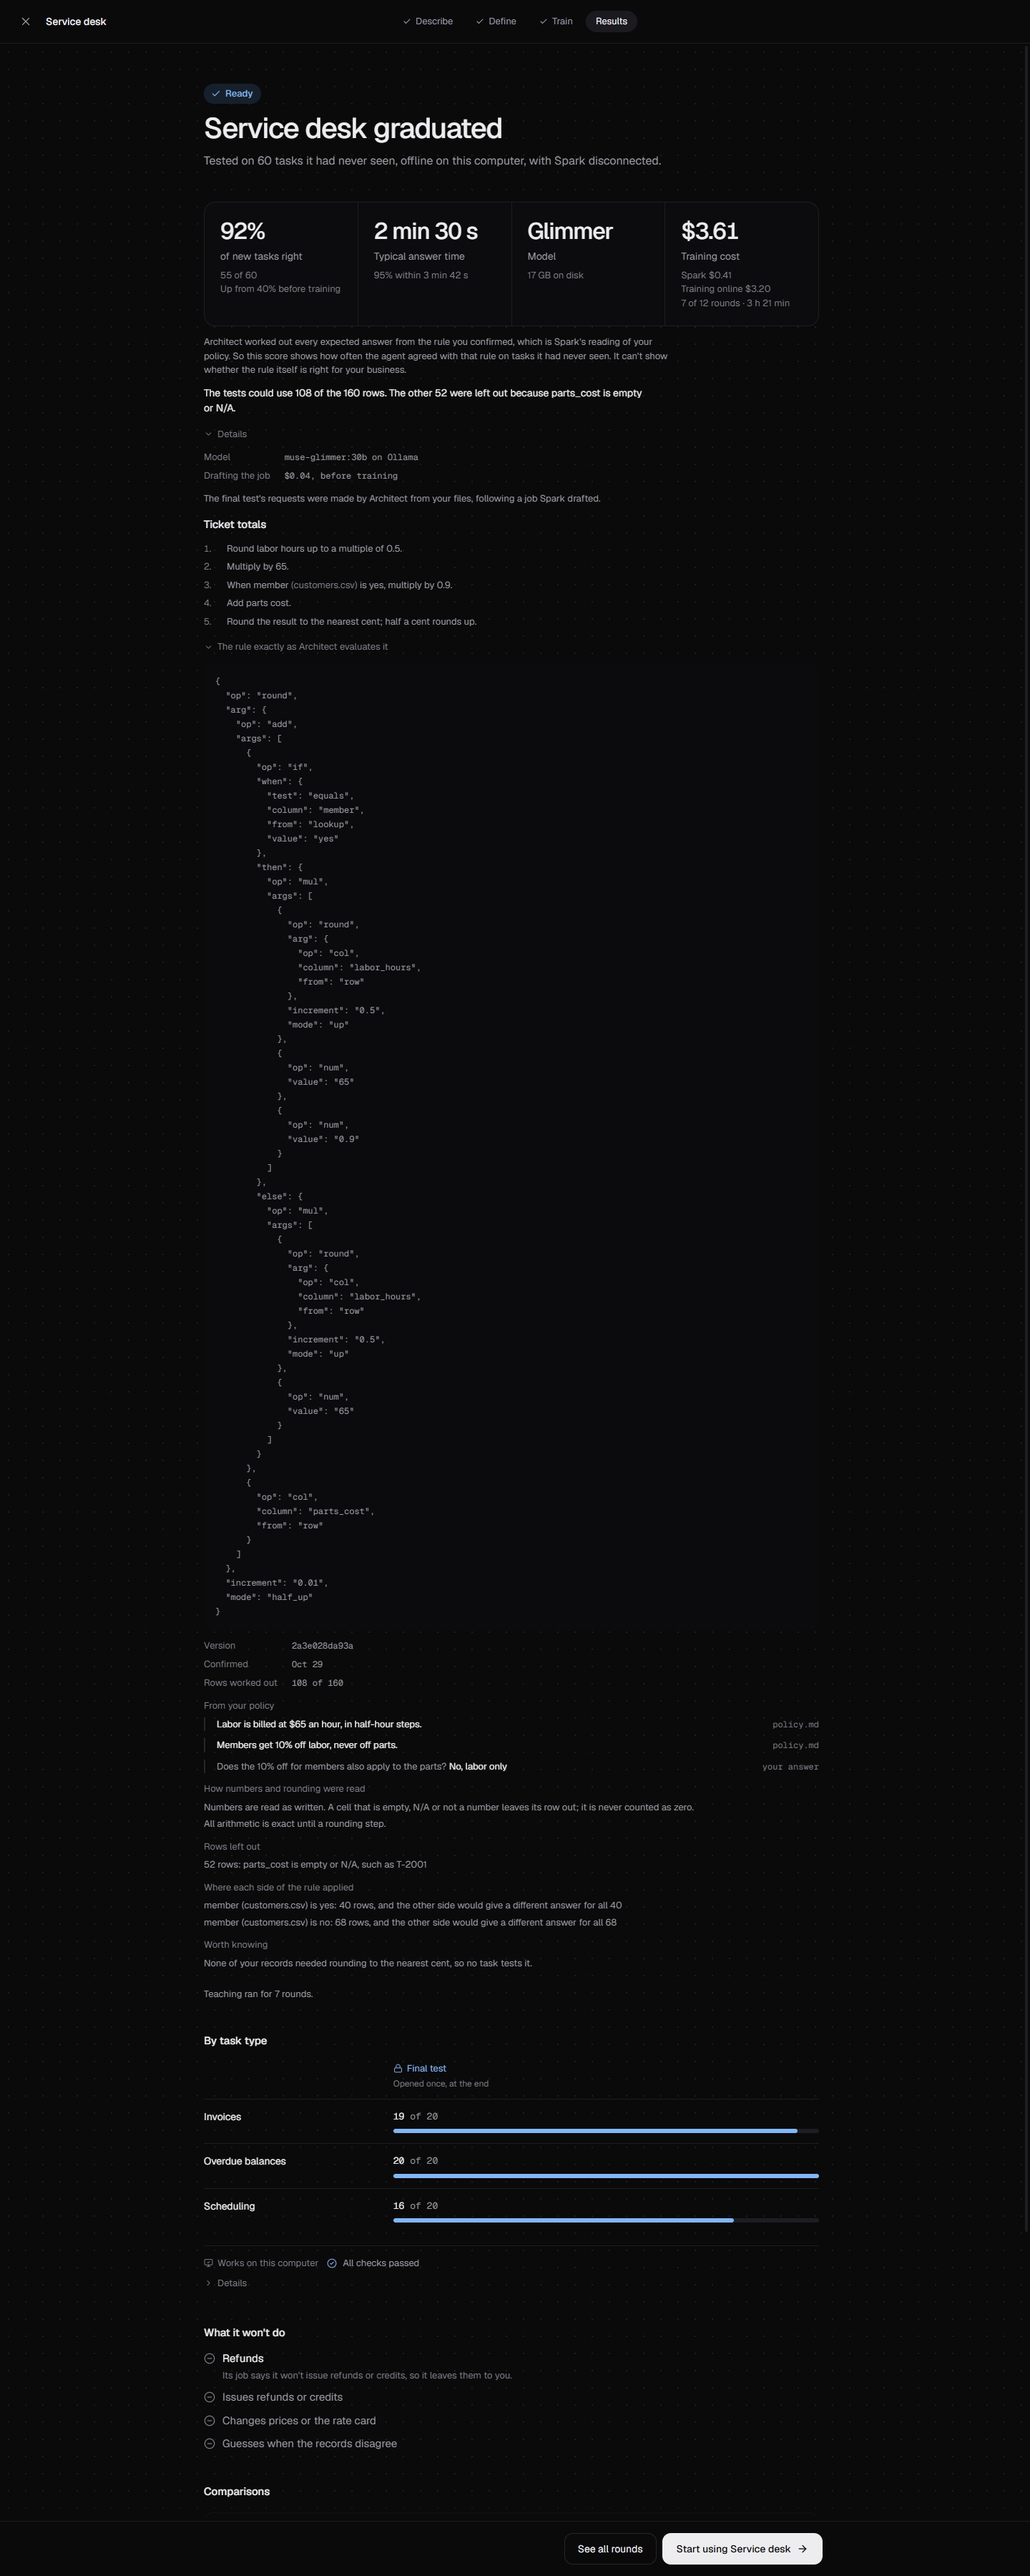
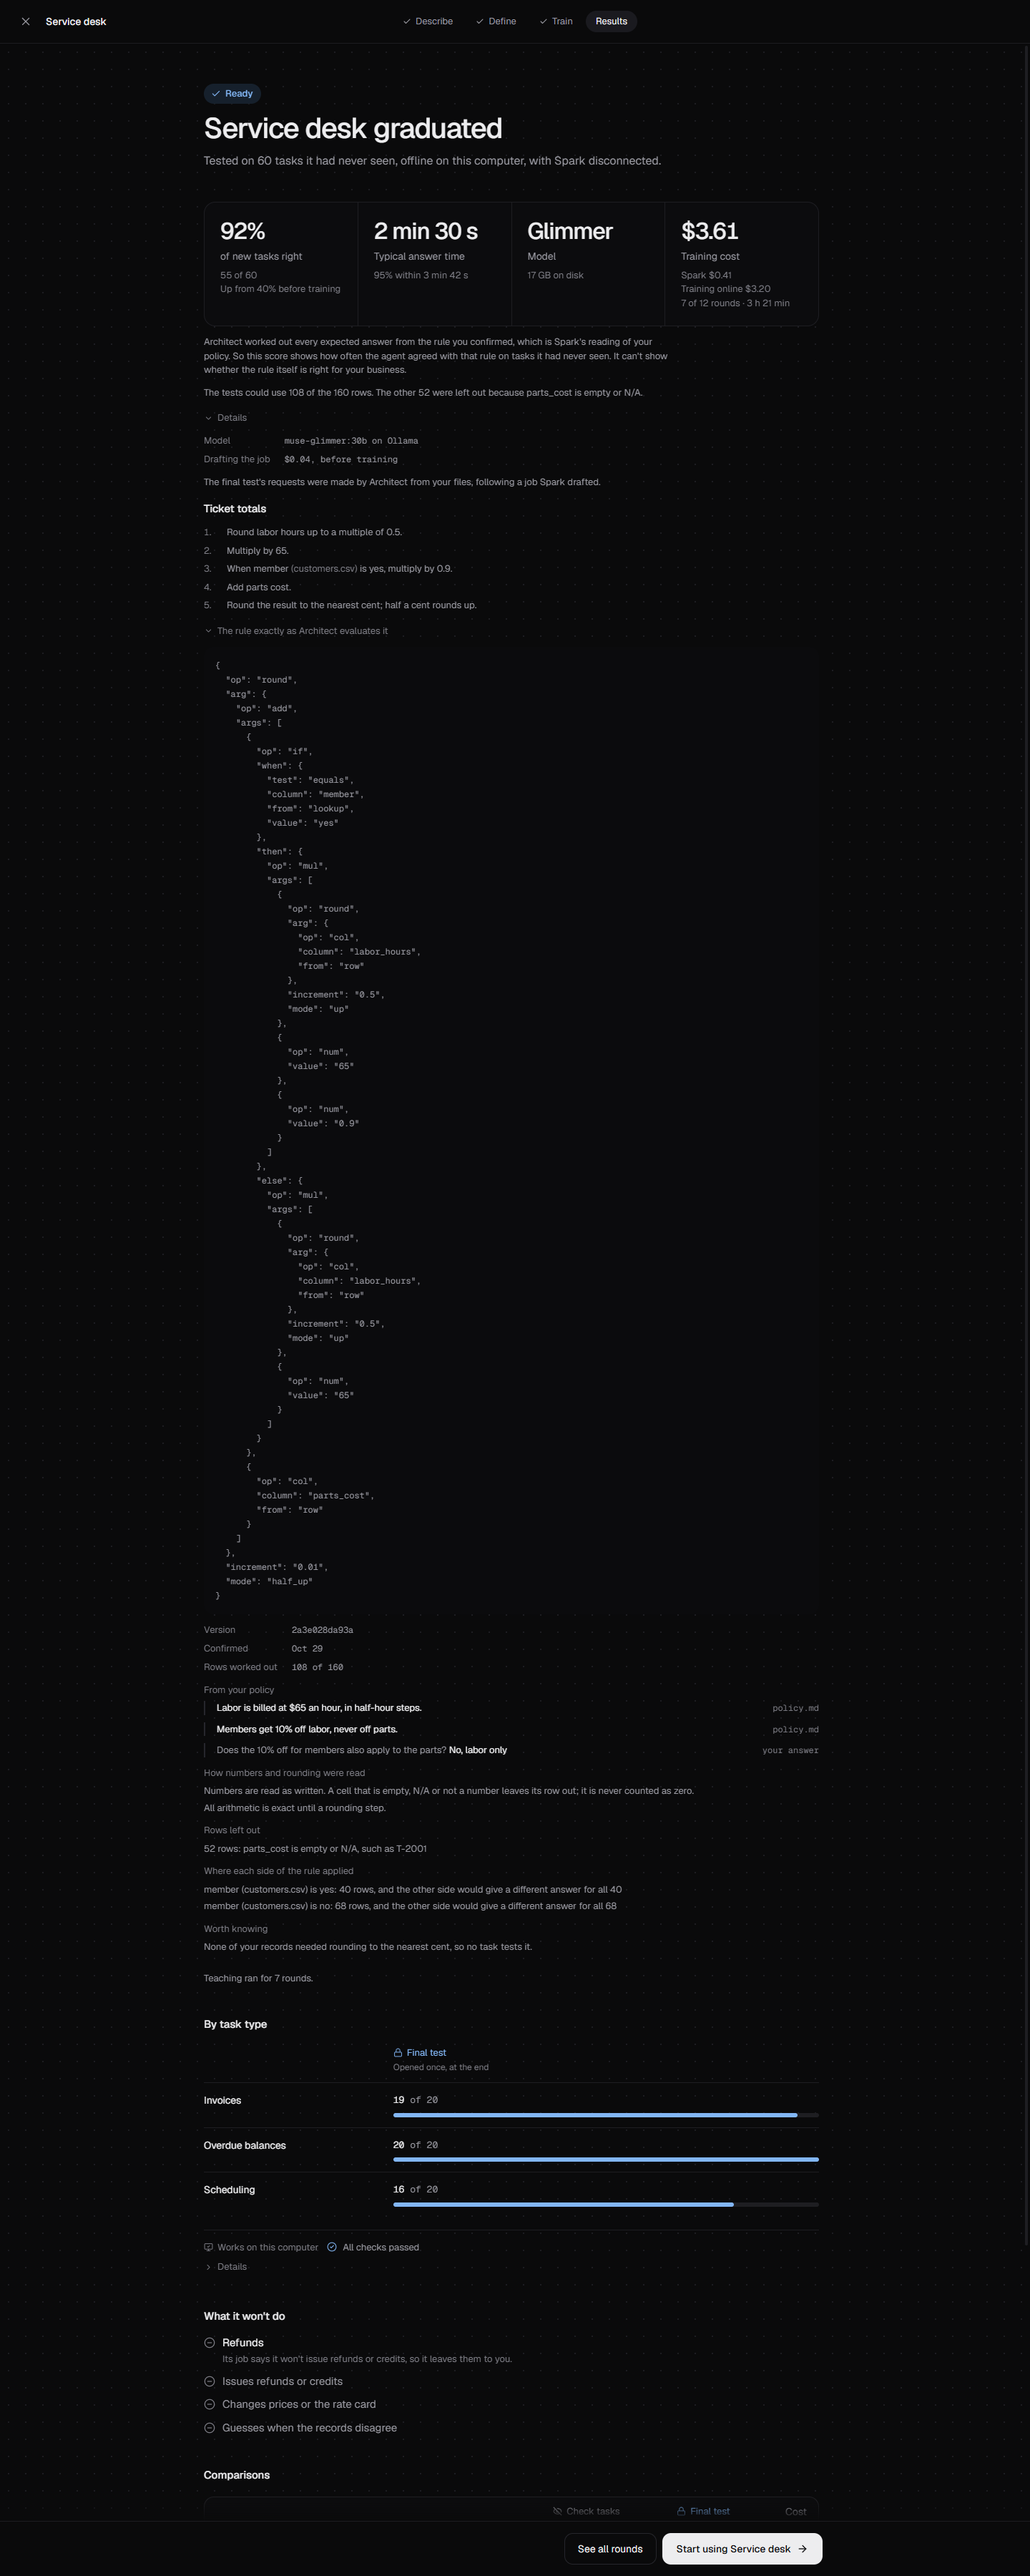
test(desktop): hold the line on rows left out at the score note's size, amend decision 061, and recapture the results of a rule

diff --git a/apps/desktop/e2e/flow.spec.ts b/apps/desktop/e2e/flow.spec.ts
@@ -587,15 +587,16 @@ for (const theme of THEMES) {
     await expect(page.getByText(note)).toBeVisible();
     await expect(page.getByRole('region', { name: 'The rule for Ticket totals' })).toHaveCount(0);
 
-    // What the rule left out of the tests is said right under it, in the page's own text and not
-    // in the small grey type of the note above it, with how many rows the tests could use.
+    // What the rule left out of the tests is said right under it, with how many rows the tests
+    // could use. It qualifies the score as the note does, so it is set at the note's size, not
+    // louder than the note it follows.
     const leftOut = page.getByText(
       'The tests could use 108 of the 160 rows. The other 52 were left out because parts_cost is empty or N/A.',
     );
     await expect(leftOut).toBeVisible();
     const sizeOf = (line: Locator) =>
       line.evaluate((element) => Number.parseFloat(getComputedStyle(element).fontSize));
-    expect(await sizeOf(leftOut)).toBeGreaterThan(await sizeOf(page.getByText(note)));
+    expect(await sizeOf(leftOut)).toBe(await sizeOf(page.getByText(note)));
     const [noteBox, leftBox, detailsBox] = await Promise.all([
       page.getByText(note).boundingBox(),
       leftOut.boundingBox(),

diff --git a/docs/DECISIONS.md b/docs/DECISIONS.md
@@ -683,7 +683,7 @@ An ask-mode write can fail instead of waiting: a message sent with `approvals: '
 - *Where the statement goes, decided.* Define and the results' rule notes show the steps (the sentence where there are none), the markdown report numbers them, and so does `scripts/draft.ts`, which prints the rule a person reads before `--confirm-rules`. The type's one-line `rule` in Task sets keeps the sentence: it is a stored row label, and a list can't be one. The teacher's prompt and the tasks the student is given never held the statement, so what models are told does not change.
 - *What an example shows.* "Shows how the rule rounds labor hours" and "... the total" (the answer's own name), where it said "Shows the rounding (labor hours)" and "(the result)". The rule is the subject so no verb has to agree with a column ("labor hours round", "parts cost rounds"). Drafts of 0.3.1 and of before it ("A rounding edge") are read in these words.
 - *A rounding no record needed.* "None of your records needed rounding to the nearest cent, so no task tests it." for any rounding step, one sentence for Define, the results and the report. It does not point at the made-up example, which the results do not show and which may not exist; the example's own tags ("Not from your records") say what it is. Older sentences of either stored form are read in it.
-- *Results.* Under the score note, in normal text, a rule that left rows out says how many rows the tests could use and why the others were left out: "The tests could use 108 of the 160 rows. The other 52 were left out because parts_cost is empty or N/A." A report holds no table's name, so it says "rows". "Confirmed Oct 29" like Define, "Typical answer time" here and in the local-test line, "17 GB on disk".
+- *Results.* Under the score note, at the note's size and color (it qualifies the score as the note does, and set louder it read as the main text with the note as its preface), a rule that left rows out says how many rows the tests could use and why the others were left out: "The tests could use 108 of the 160 rows. The other 52 were left out because parts_cost is empty or N/A." A report holds no table's name, so it says "rows". "Confirmed Oct 29" like Define, "Typical answer time" here and in the local-test line, "17 GB on disk".
 - *Tests.* Engine `rule-steps` (new), `older-words`, `rule-examples`, `rule-template`, `drafting-rules`, the harness `report` and shared `rules`. Desktop `rule-review`, `rule-notes`, `rule-steps-view` (new) and `left-out` (new). Hidden e2e `flow.spec.ts`, `rule.spec.ts` and `retest.spec.ts`. Captures `rule-define`, `rule-confirmed` and `flow-report-rule` in both themes, and every Results capture for the tiles.
 
 ## 062. Every run needs its model on this computer, and a screen reads again what it left
